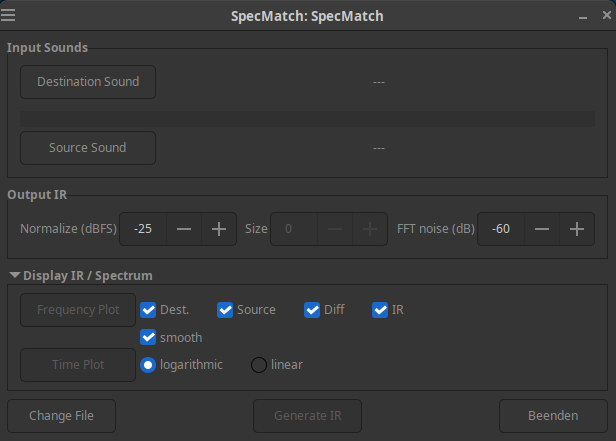
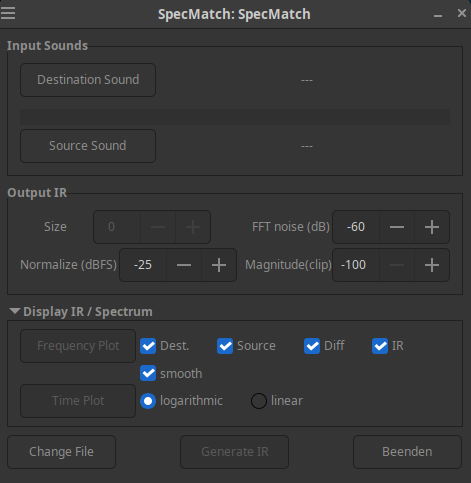
Add option to set minimal magnitude level

diff --git a/specmatch/spectrum.py b/specmatch/spectrum.py
@@ -48,14 +48,14 @@ def r2c_fft(a, n=None):
     else:
         return np.append(a, np.conj(a[-2:0:-1]), axis=0)
 
-def mps(s, n=0, clip=-100):
+def mps(s, n=0, _clip=-100):
     """
     create minimum-phase spectrum from complex spectrum s, use hanning window
     to mask out higher "quefrencys" in the cepstrum.
     https://ccrma.stanford.edu/~jos/filters/Creating_Minimum_Phase_Filters.html
     http://www.dsprelated.com/dspbooks/sasp/Spectral_Envelope_Cepstral_Windowing.html
     """
-    clip=-100
+    clip = _clip
     cp = fft.ifft(np.log(clipdb(s,clip)),axis=0)
     if n:
         n = min(n, len(s))
@@ -211,9 +211,9 @@ class SmoothedIR(object):
         else:
             return np.concatenate(l)
 
-    def get_ir(self, sz, wd=50):
+    def get_ir(self, sz, mag, wd=50):
         x = fftfreq2(sz, 1.0/self.rate)
-        ir = np.real(fft.ifft(mps(spectrum2fft(self(x)),0,0),axis=0))
+        ir = np.real(fft.ifft(mps(spectrum2fft(self(x)),0,mag),axis=0))
         if wd:
             w = sig.hamming(2*wd)[-wd:]
             for i in range(ir.shape[1]):
@@ -264,7 +264,7 @@ class CalcIR(object):
     n = pow2roundup(max(len(a1), len(a2)))
     f1 = fft(a1, n, axis=0)
     f2 = fft(a2, n, axis=0)
-    f3 = SmoothedIR(f1, f2, cutoff, rate).get_ir(sz)
+    f3 = SmoothedIR(f1, f2, cutoff, rate).get_ir(sz, magnitude)
     ir = real(ifft(f3, axis=0))
     """
 
@@ -280,6 +280,7 @@ class CalcIR(object):
         self._a1 = self._a2 = self._sz = self._irfile = self._sound = None
         self._n = self._f1 = self._f2 = self._ir = None
         self._cutoff = None
+        self._magnitude = -100
 
     def read_sndfile(self):
         f = self.destination_sound_file
@@ -382,6 +383,14 @@ class CalcIR(object):
         self._ir = None
 
     @property
+    def magnitude(self):
+        return self._magnitude
+    @magnitude.setter
+    def magnitude(self, v):
+        self._magnitude = v
+        self._ir = None
+
+    @property
     def n(self):
         if self._n is None:
             self.n = pow2roundup(max(len(self.a1), len(self.a2)))
@@ -422,7 +431,7 @@ class CalcIR(object):
             self.status("minimum phase filter")
             #self.ir = np.real(fft.ifft(mps(self.f1/self.f2, self.sz, 0), axis=0))
             self.ir_smoother = SmoothedIR(self.f1, self.f2, self.cutoff, self.rate)
-            self.ir = self.ir_smoother.get_ir(self.sz)
+            self.ir = self.ir_smoother.get_ir(self.sz, self._magnitude)
             self.status.clear()
         return self._ir
     @ir.setter

diff --git a/specmatch/ui.py b/specmatch/ui.py
@@ -154,6 +154,8 @@ class SpecWindow(object):
         self.ir_normalize = g("ir_normalize")
         self.ir_normalize.connect("value-changed", self.on_ir_normalize)
         self.ir_norm = self.ir_normalize.get_value()
+        self.ir_magnitude = g("ir_magnitude")
+        self.ir_magnitude.connect("value-changed", self.on_ir_magnitude)
         self.range_from_input = g("range_from")
         self.range_to_input = g("range_to")
         self.channel_left = g("left")
@@ -279,6 +281,7 @@ class SpecWindow(object):
             self.ir_size.set_value(sz)
         self.ir_cut.set_value(d.get("ir_cutoff", -60))
         self.ir_normalize.set_value(d.get("ir_normalize", -25))
+        self.ir_magnitude.set_value(d.get("ir_magnitude", -100))
         r = d.get("original_range", (None,None))
         self.calc.original_mode = d.get("original_mode",-1)
         { 0: self.channel_left,
@@ -294,6 +297,7 @@ class SpecWindow(object):
                  ir_size = self.calc.sz,
                  ir_cutoff = self.calc.cutoff,
                  ir_normalize = self.ir_norm,
+                 ir_magnitude = self.calc.magnitude,
                  original_range = self.calc.original_range,
                  original_mode = self.calc.original_mode,
                  )
@@ -316,6 +320,9 @@ class SpecWindow(object):
 
     def on_ir_normalize(self, o):
        self.ir_norm = self.ir_normalize.get_value()
+
+    def on_ir_magnitude(self, o):
+       self.calc.magnitude = self.ir_magnitude.get_value()
 
     def on_channel(self, o, mode):
         self.calc.original_mode = mode

diff --git a/README.md b/README.md
@@ -1,9 +1,11 @@
 # SpecMatch 
 
-![SpechMatch](https://github.com/brummer10/SpecMatch/blob/main/SpecMatch.png?raw=true)
+<p align="center">
+    <img src="https://github.com/brummer10/SpecMatch/blob/main/SpecMatch.png?raw=true" />
+</p>
 
 A little python3 script to compare the spectrum of two sound-files and generate a
-Impulse Response File from the different.
+(Smoothed) Impulse Response File from the Spectral difference.
 
 ## Installing:
 ----------------
@@ -22,15 +24,14 @@ to uninstall it run
 
 `sudo pip uninstall ./dist/specmatch-0.9-py3-none-any.whl`
 
-
-
-But SpecMatch could be used without installing directly from the source tree, 
-just go to the specmatch folder and run ./specmatch
-You may need to make the file specmatch executable to do so.
-
 ## Running:
 ----------------
-It should be available from your desktop environment or the command
+
+SpecMatch could be used without installing directly from the source tree, 
+just go to the specmatch folder and run ./specmatch
+You may need to make the file specmatch executable and ensure that all dependencies been solved.
+
+When installed, it should be available from your desktop environment or the command
 line as "specmatch".
 
 
@@ -45,25 +46,28 @@ project file or create a new one (changes in projects will be
 auto-saved).
 
 Click on "Destination Sound", this is the Sound File you want to match,
-and select a file.
-For stereo sounds, you can select one of the channels (or
+and select a file. For stereo sounds, you can select one of the channels (or
 the sum) or produce a stereo IR.
 
 Use "Source File" to select a other Sound File,
-this is the Sound you wont to match the destignation, for comparison.
+this is the Sound you wont to match the destination.
 
 Both Files could have different size, no matter, as here we only compare the
 Frequency Spectrum of the Files. 
 
 Now you could do a Frequency Plot of the Source and the Destination File.
-Additional the differences will be shown and the resulting Smoothed IR-File.
+Additional the differences and the resulting Smoothed IR-File will be shown.
 You could as well do a Time Plot.
 
 To generated the IR-File you could set the normalise level (default -25 dBFS), 
 select the resulting IR-File-size (default 3500 samples)
 and you could select the Noise Level, that means the level below which
 the signal will be threaded as Noise (default -60 dB).
+Additional it's possible to set the maximum magnitude difference,
+means the level below the maximum magnitude, 
+were the minimum magnitude get clipped (default -100dB).
 
-You could select to generate a mono or a stereo IR-File.
+You could generate a mono or a stereo IR-File.
+
 When you press "Generate IR" a File-browser will pop up and
 let you choose were, and under which name, to save the IR-File.  
